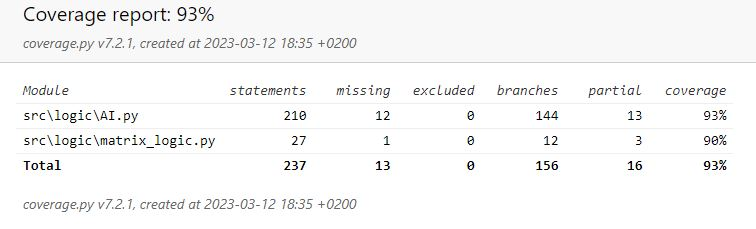
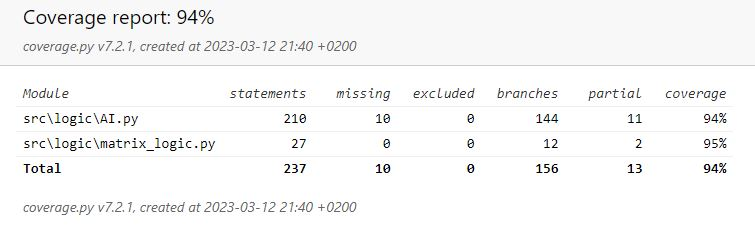
test updates

diff --git a/src/tests/logictests.py b/src/tests/logictests.py
@@ -175,6 +175,21 @@ class tests(unittest.TestCase):
 
         self.assertLess(executionTime, 0.1)
 
+    def testMinimaxDepth2(self):
+
+        self.board = self.logic.clearBoard(self.board)
+        depth = 2
+
+        startTime = datetime.datetime.now()
+        self.AI.minimax(depth, self.board, True, 1, -math.inf, math.inf)
+        endTime = datetime.datetime.now()
+
+        executionTime = endTime - startTime
+        executionTime = str(executionTime)[5:]
+        executionTime = float(executionTime)
+
+        self.assertLess(executionTime, 0.5)
+
     def testMinimaxDepth3(self):
 
         self.board = self.logic.clearBoard(self.board)
@@ -188,7 +203,22 @@ class tests(unittest.TestCase):
         executionTime = str(executionTime)[5:]
         executionTime = float(executionTime)
 
-        self.assertLess(executionTime, 1)
+        self.assertLess(executionTime, 2)
+
+    def testMinimaxDepth4(self):
+
+        self.board = self.logic.clearBoard(self.board)
+        depth = 4
+
+        startTime = datetime.datetime.now()
+        self.AI.minimax(depth, self.board, True, 1, -math.inf, math.inf)
+        endTime = datetime.datetime.now()
+
+        executionTime = endTime - startTime
+        executionTime = str(executionTime)[5:]
+        executionTime = float(executionTime)
+
+        self.assertLess(executionTime, 5)
 
     def testMinimaxDepth5(self):
 
@@ -204,6 +234,22 @@ class tests(unittest.TestCase):
         executionTime = float(executionTime)
 
         self.assertLess(executionTime, 15)
+
+    def testMinimaxDepth6(self):
+
+        self.board = self.logic.clearBoard(self.board)
+        depth = 6
+
+        startTime = datetime.datetime.now()
+        self.AI.minimax(depth, self.board, True, 1, -math.inf, math.inf)
+        endTime = datetime.datetime.now()
+
+        executionTime = endTime - startTime
+        executionTime = str(executionTime)[5:]
+        executionTime = float(executionTime)
+
+        self.assertLess(executionTime, 60)
+
 
 
 if __name__ == "__main__":
